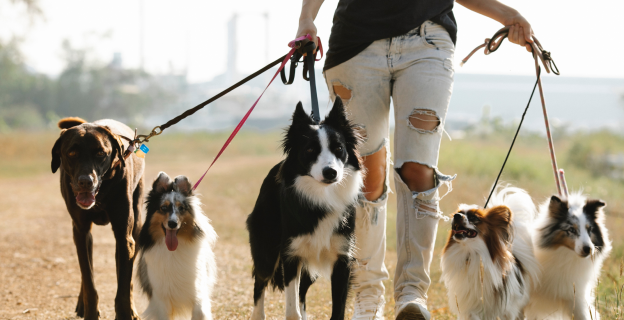
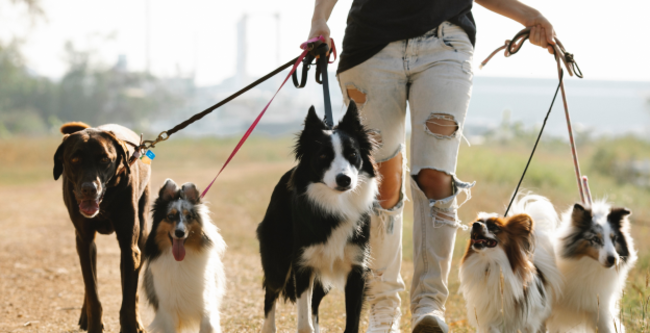
resize assets and change routing configuration

diff --git a/src/components/Banner/index.jsx b/src/components/Banner/index.jsx
@@ -1,6 +1,7 @@
 import React from 'react';
 import styled from 'styled-components';
 import logo from '../../assets/marilou-logo-cropped.png';
+import { Link } from 'react-router-dom';
 
 const BannerContainer = styled.div`
   color: black;
@@ -24,7 +25,7 @@ const LinkContainer = styled.ul`
   opacity: 1;
 `;
 
-const Link = styled.a`
+const StyledLink = styled(Link)`
   transition: 0.5s;
   text-decoration: none;
   color: black;
@@ -35,23 +36,22 @@ const Link = styled.a`
 
   &:hover {
     color: #538A82;
-    font-weight: 800;
   }
 `;
 
 function Banner() {
     return (
       <BannerContainer>
-        <Logo src={logo} alt="Marilou logo" />
+        <StyledLink to="/"><Logo src={logo} alt="Marilou logo" /></StyledLink>
         <LinkContainer>
           <li>
-            <Link href="#">Accueil</Link>
+            <StyledLink to="/">Accueil</StyledLink>
           </li>
           <li>
-            <Link href="#">Prestations</Link>
+            <StyledLink to="/prestations">Prestations</StyledLink>
           </li>
           <li>
-            <Link href="#">Contact</Link>
+            <StyledLink to="/contact">Contact</StyledLink>
           </li>
         </LinkContainer>
       </BannerContainer>

diff --git a/src/index.js b/src/index.js
@@ -3,21 +3,21 @@ import ReactDOM from 'react-dom';
 import { BrowserRouter as Router } from 'react-router-dom';
 
 import AppRouter from './router';
-import Banner from './components/Banner'
+import Banner from './components/Banner';
 
 import './index.css';
 import reportWebVitals from './reportWebVitals';
 import 'material-icons/iconfont/material-icons.css';
 
 ReactDOM.render(
-  <>
-  <Banner />
   <Router>
     <React.StrictMode>
-      <AppRouter />
+      <>
+        <Banner />
+        <AppRouter />
+      </>
     </React.StrictMode>
-  </Router>
-  </>,
+  </Router>,
   document.getElementById('root')
 );
 
